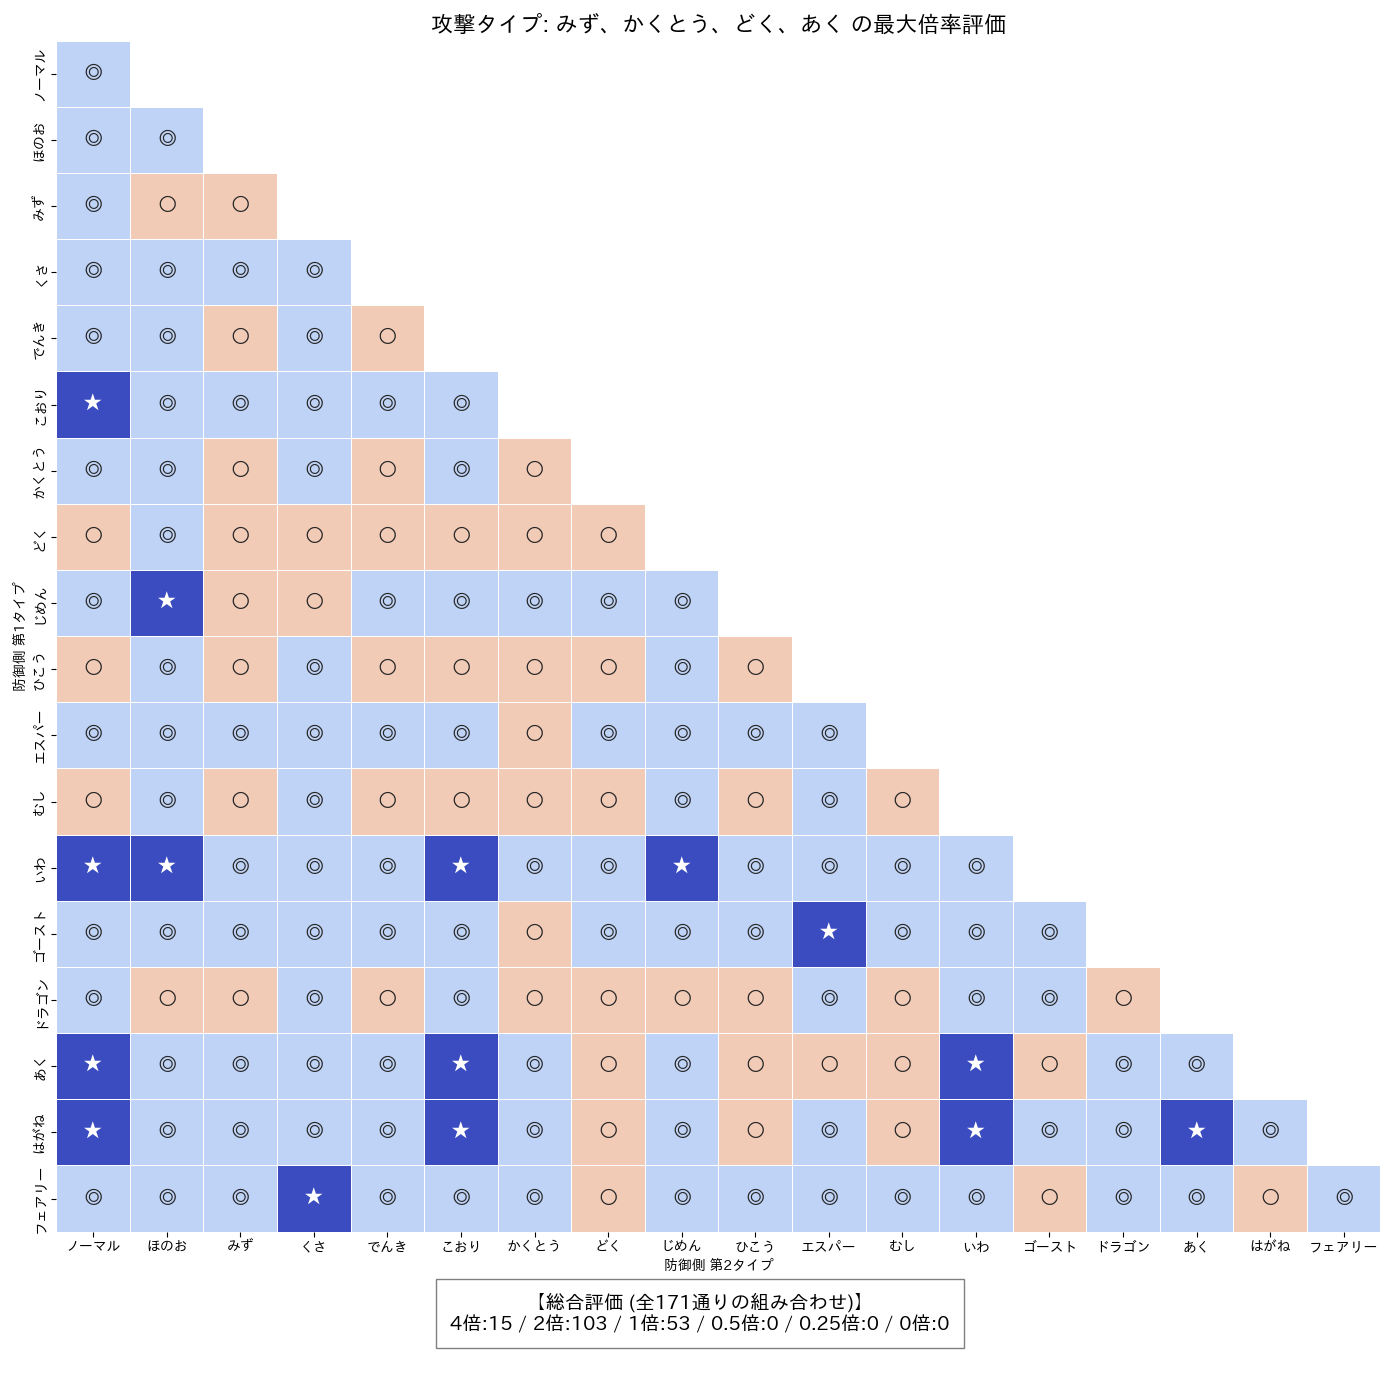
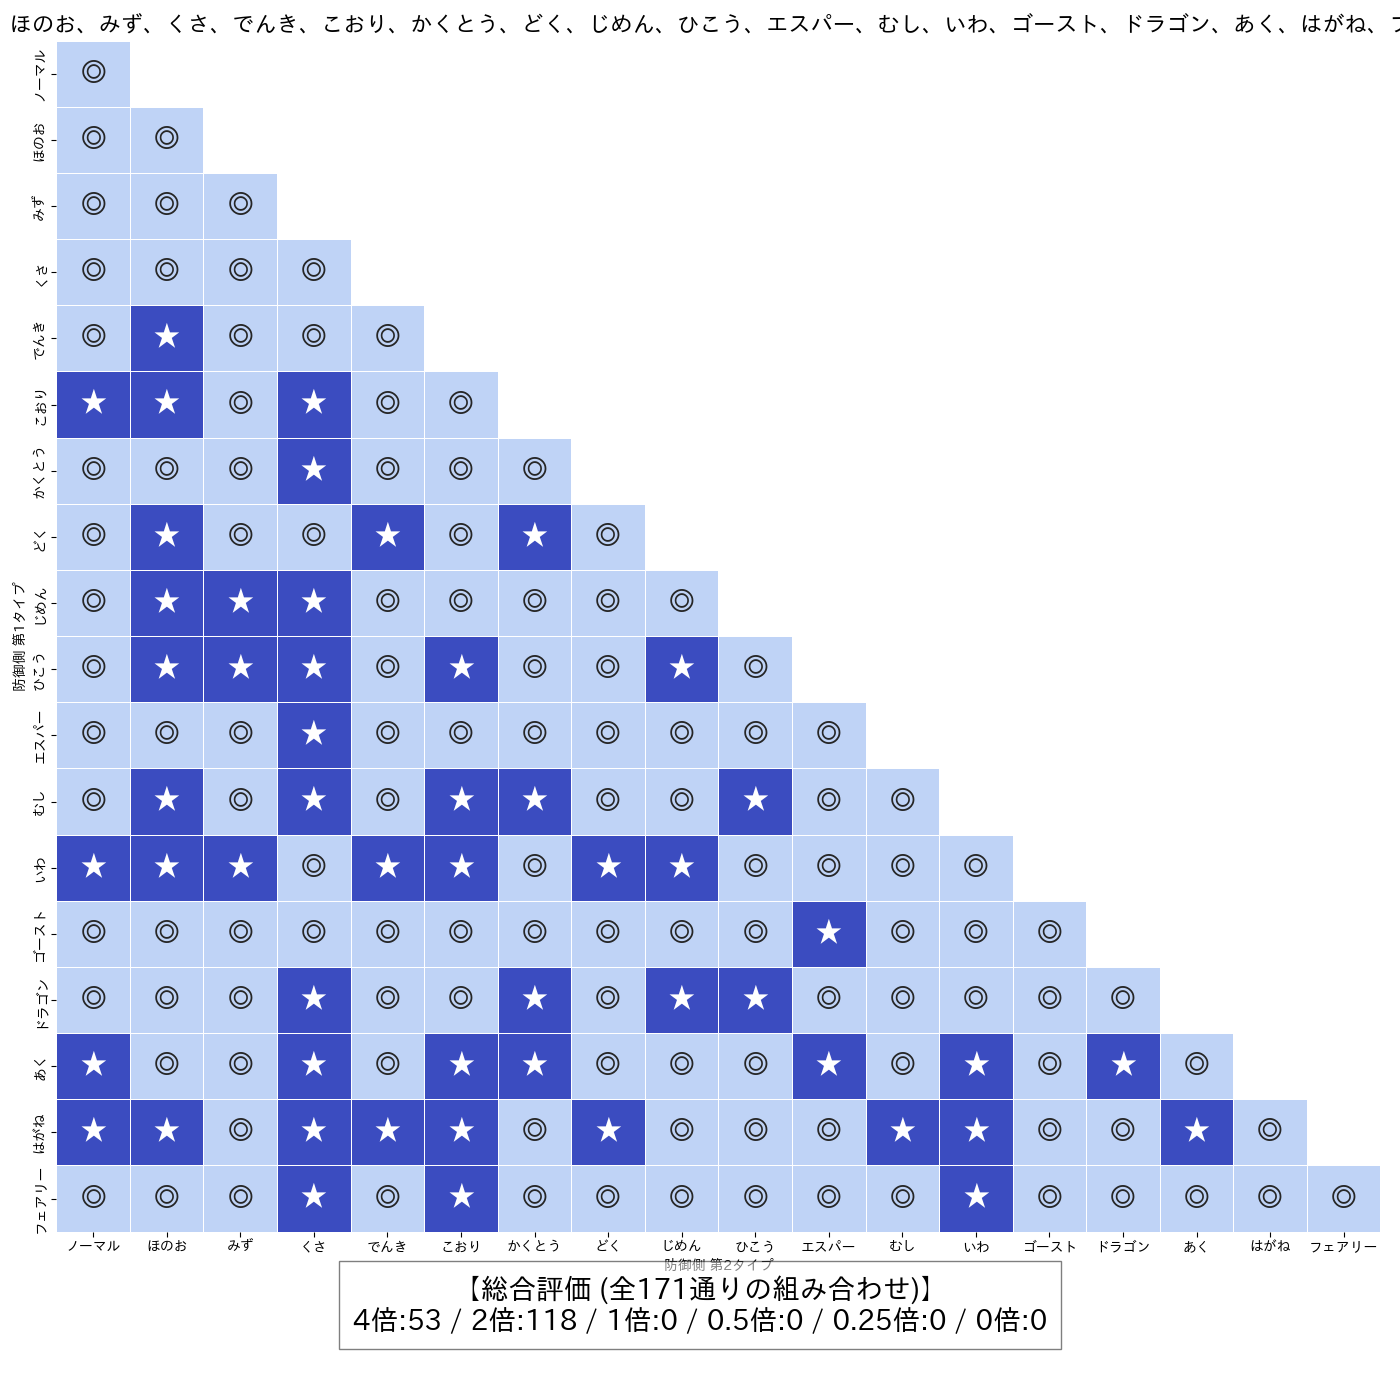
2026/05/26 一旦セーブ

diff --git a/poketype.py b/poketype.py
@@ -523,7 +523,7 @@ def plot_multi_attacker_heatmap(attacker_bool_list):
         center=1.5,
         linewidths=0.5,
         cbar=False,
-        annot_kws={"size": 14},
+        annot_kws={"size": 20},
         ax=ax
     )
 
@@ -533,7 +533,7 @@ def plot_multi_attacker_heatmap(attacker_bool_list):
         f"4倍:{counts[4.0]} / 2倍:{counts[2.0]} / 1倍:{counts[1.0]} / "
         f"0.5倍:{counts[0.5]} / 0.25倍:{counts[0.25]} / 0倍:{counts[0.0]}"
     )
-    plt.figtext(0.5, 0.05, summary_text, ha="center", fontsize=14, bbox={"facecolor": "white", "alpha": 0.5, "pad": 10})
+    plt.figtext(0.5, 0.05, summary_text, ha="center", fontsize=20, bbox={"facecolor": "white", "alpha": 0.5, "pad": 10})
 
     type_list_str = "、".join(selected_names)
     plt.title(f"攻撃タイプ: {type_list_str} の最大倍率評価", fontsize=16)
@@ -547,23 +547,23 @@ def plot_multi_attacker_heatmap(attacker_bool_list):
 
 # 実行例
 attackers = [False] * 18
-attackers[0] = False  # ノーマル
-attackers[1] = False  # ほのお
+attackers[0] = True  # ノーマル
+attackers[1] = True  # ほのお
 attackers[2] = True  # みず
-attackers[3] = False  # くさ
-attackers[4] = False  # でんき
-attackers[5] = False  # こおり
+attackers[3] = True  # くさ
+attackers[4] = True  # でんき
+attackers[5] = True  # こおり
 attackers[6] = True  # かくとう
-attackers[7] = False  # どく
-attackers[8] = False  # じめん
-attackers[9] = False  # ひこう
-attackers[10] = False  # エスパー
-attackers[11] = False  # むし
-attackers[12] = False  # いわ
-attackers[13] = False  # ゴースト
-attackers[14] = False  # ドラゴン
+attackers[7] = True  # どく
+attackers[8] = True  # じめん
+attackers[9] = True  # ひこう
+attackers[10] = True  # エスパー
+attackers[11] = True  # むし
+attackers[12] = True  # いわ
+attackers[13] = True  # ゴースト
+attackers[14] = True  # ドラゴン
 attackers[15] = True  # あく
-attackers[16] = False  # はがね
-attackers[17] = False  # フェアリー
+attackers[16] = True # はがね
+attackers[17] = True  # フェアリー
 
 plot_multi_attacker_heatmap(attackers)
